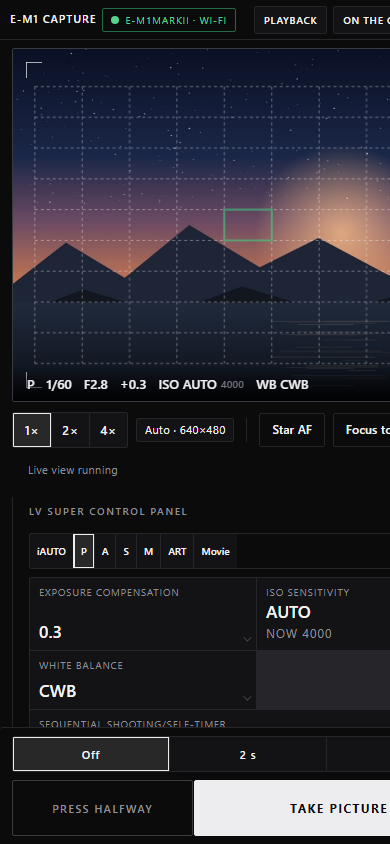
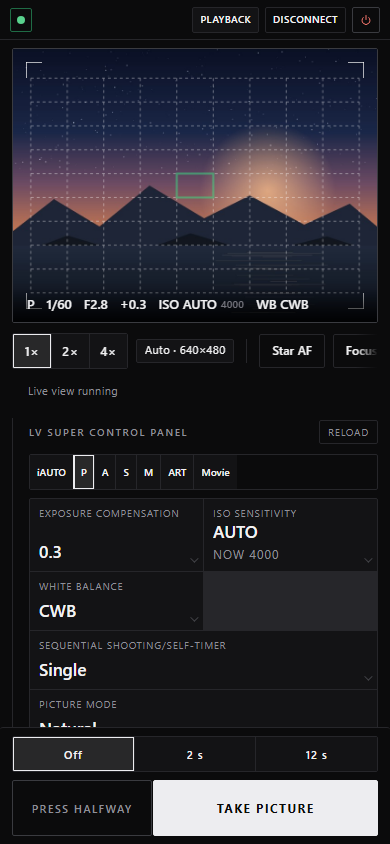
web: phone layout that fits the screen
The live view no longer sticks on phones (it ate half the screen), the header keeps only the connection dot, playback, disconnect and power, the mode row keeps all seven modes on one line, and the tool rows fade at the edge instead of looking cut. Verified in a real 390 px frame (the headless browser cannot go below 496 px).

diff --git a/omcap/web/index.html b/omcap/web/index.html
@@ -495,13 +495,27 @@ input[type=number]{width:72px}
 }
 /* phone: two columns of tiles, tighter chrome */
 @media(max-width:599px){
+  /* the image scrolls away instead of eating half the screen: panels get the full height */
+  #liveCol{position:static}
+  #viewport{width:100%}
   #props{grid-template-columns:repeat(2,minmax(0,1fr))}
-  #app>header{height:40px;min-height:40px;padding:0 10px;gap:6px;flex-wrap:nowrap;
-    overflow-x:auto;overflow-y:hidden;scrollbar-width:none}
-  #app>header::-webkit-scrollbar{display:none}
+  #app>header{height:auto;min-height:40px;padding:5px 10px;gap:6px;flex-wrap:wrap;
+    overflow:visible;row-gap:5px}
   #app>header>*{flex:none}
+  #app>header #connText{display:none} /* just the green dot: the model name costs a whole row */
+  #app>header h1{display:none}        /* the phone is already inside the app */
+  #app>header .quitBtn{display:none}  /* quitting is a computer action */
+  #app>header .chip{padding:0 6px}
+  #status{display:none}
   #app>header h1{font-size:10.5px;letter-spacing:.12em}
-  #modeBox .seg button{width:auto;flex:1;font-size:10px;letter-spacing:.03em;padding:0 2px}
+  #app>header .hbtn{height:26px;min-height:26px;padding:0 7px;font-size:9.5px}
+  #hdrLocal{display:none!important} /* listing files on the computer is a desktop action */
+  .tb{flex-wrap:nowrap;overflow-x:auto;-webkit-overflow-scrolling:touch;
+    mask-image:linear-gradient(to right,#000 calc(100% - 22px),transparent 100%)}
+  .tb>*{flex:none}
+  #modeBox .seg{flex-wrap:nowrap}
+  #modeBox .seg button{width:auto;flex:0 0 auto;min-width:0;font-size:10px;letter-spacing:0;padding:0 7px}
+  #valStrip .sub{margin-left:-8px;opacity:.8}
   #props label>.v{font-size:17px}
   #valStrip{font-size:13px;height:34px;gap:12px}
 }
